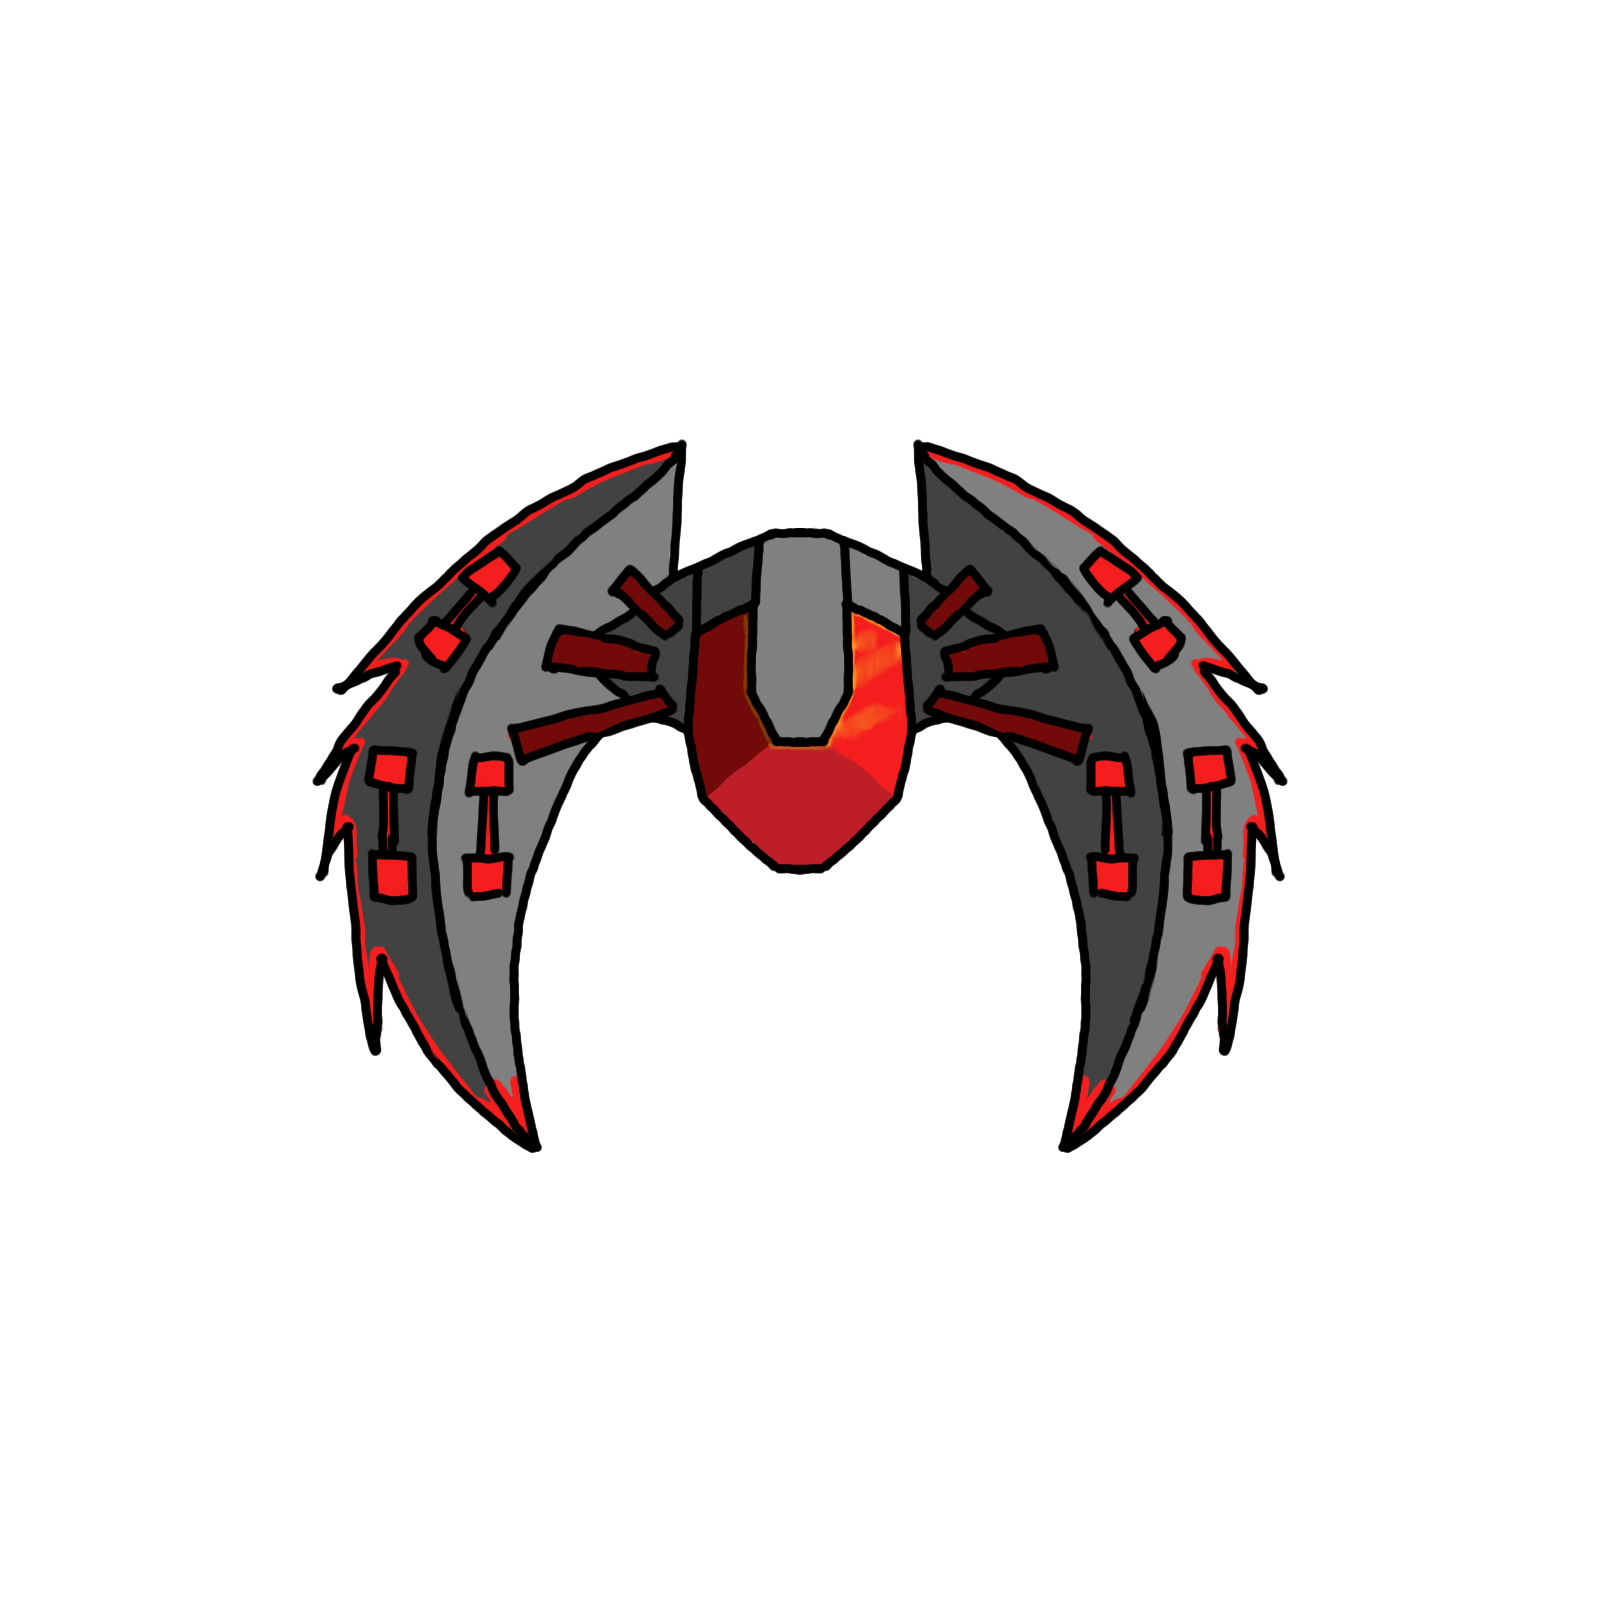
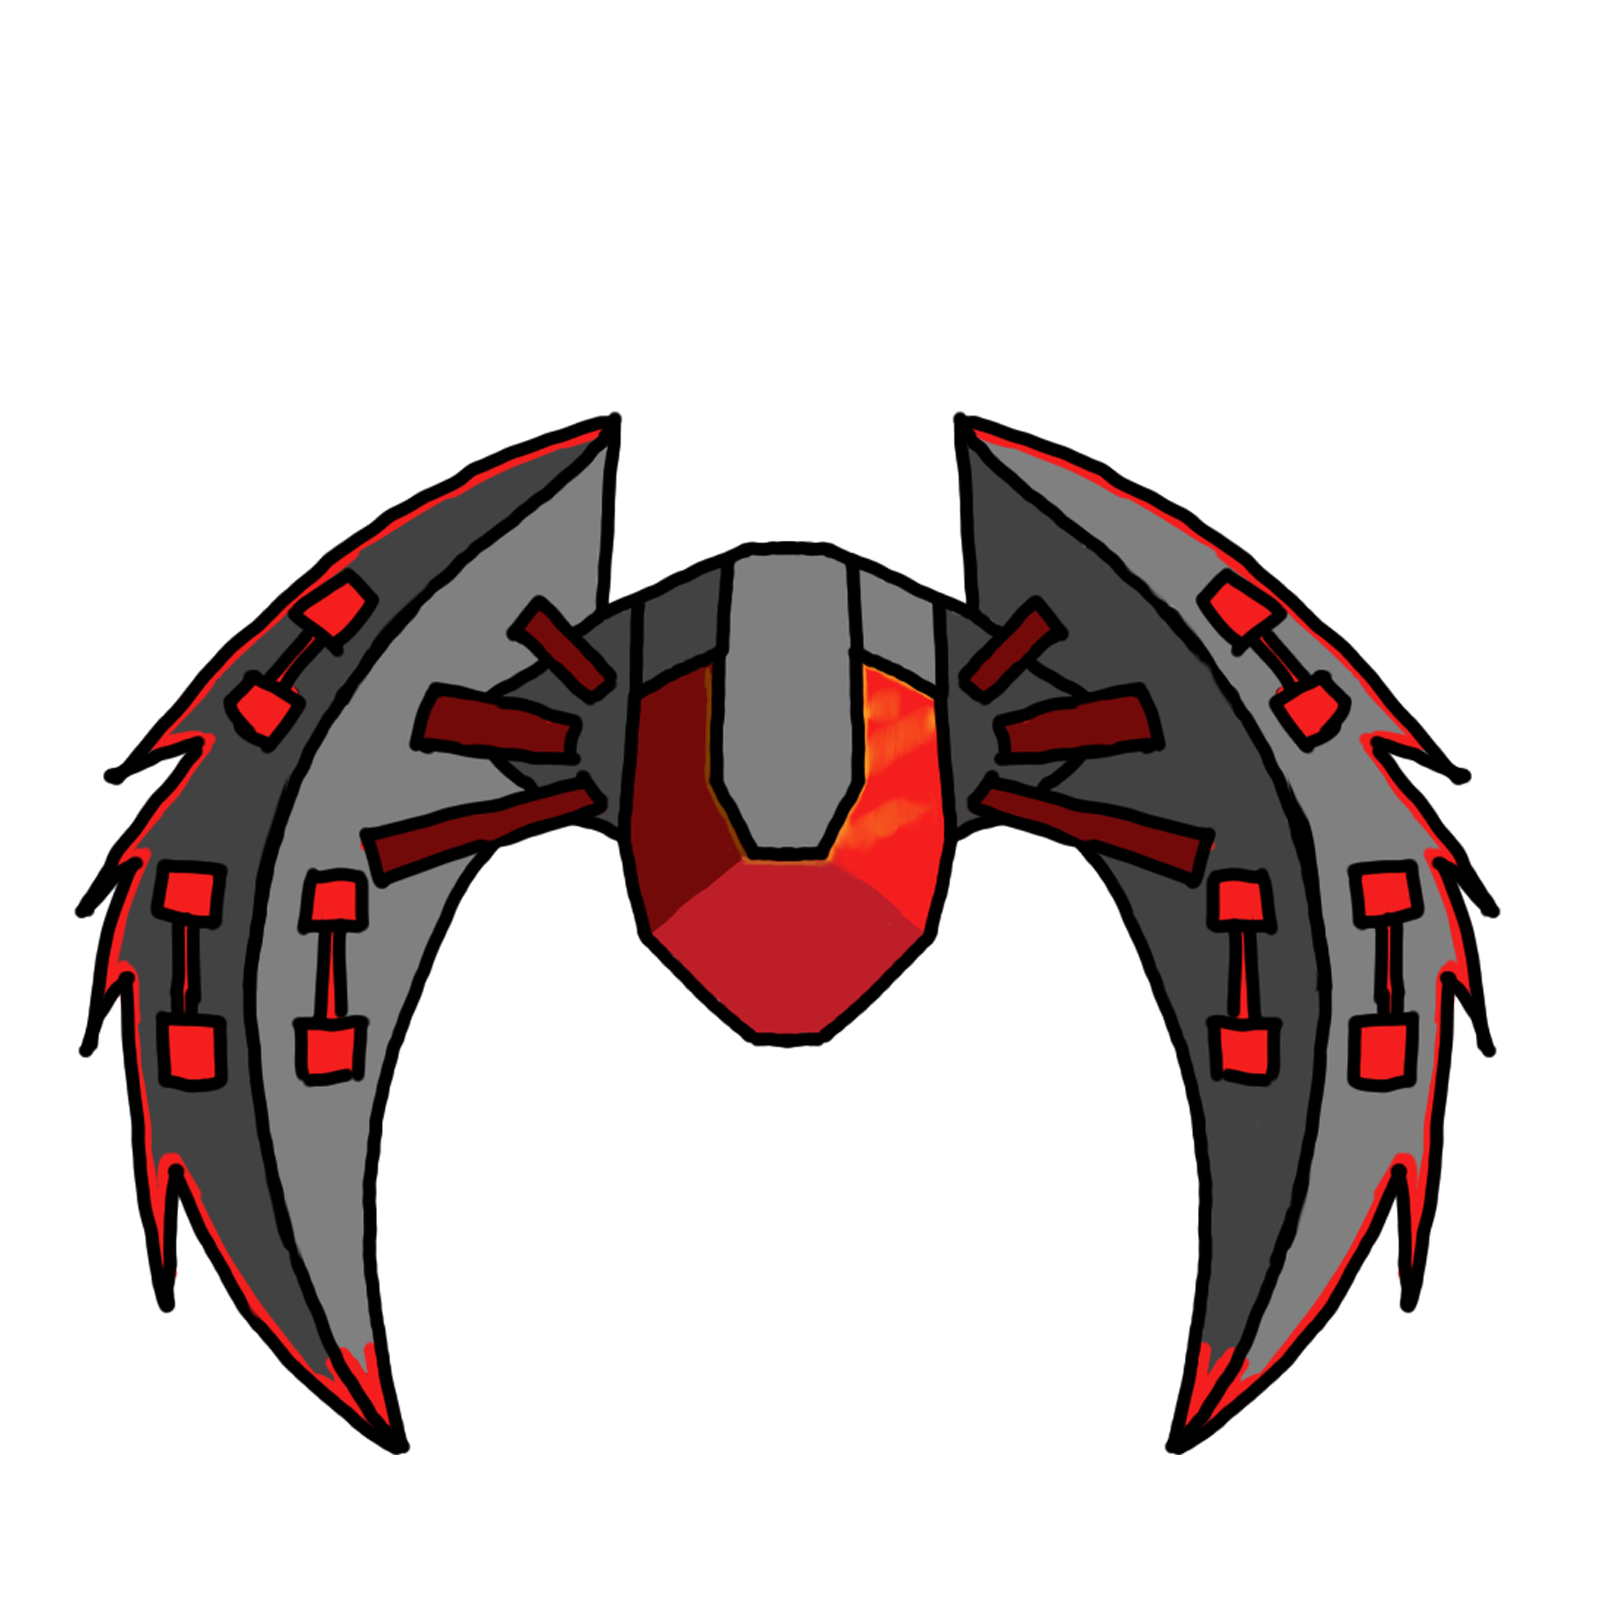
Implemented new Sprites, Performance Optimization

Changed region(s): [[0.0312, 0.25, 0.9375, 0.9062]]

diff --git a/Project/PreAlpha/qml/Enemy/Enemy.qml b/Project/PreAlpha/qml/Enemy/Enemy.qml
@@ -16,7 +16,7 @@ EntityBase{
     property int hp: 20
 
     property int shootingRange:         1000        // distance in pixel
-    property double shootingAngle:      20          // angle on one side
+    property double shootingAngle:      20 / 57       // angle on one side
 
     property Player player;
     property int playerX: player.x + player.width/2;
@@ -28,7 +28,7 @@ EntityBase{
     Image {
         id:image
         source: "../../assets/Enemy/enemy1.png"
-         anchors.fill: parent
+        anchors.fill: parent
     }
 
 
@@ -59,8 +59,7 @@ EntityBase{
     function trackingSystem() {
 
        var yDistance = enemy.y - playerY
-       var angle = shootingAngle/57 // grad -> rad
-       var offset = Math.tan(angle) * yDistance
+       var offset = Math.tan(shootingAngle) * yDistance
        var lLimit = enemy.x + offset
        var rLimit = enemy.x - offset
 
@@ -106,4 +105,5 @@ EntityBase{
             }
         }
     }
+
 }

diff --git a/Project/PreAlpha/qml/Enemy/Enemy3.qml b/Project/PreAlpha/qml/Enemy/Enemy3.qml
@@ -16,7 +16,7 @@ EntityBase{
     property int hp: 50
 
     property int shootingRange:         1500         // distance in pixel
-    property double shootingAngle:      40       // angle on one side
+    property double shootingAngle:      40 / 57      // angle on one side
 
     property Player player;
     property int playerX: player.x + player.width/2;
@@ -27,7 +27,7 @@ EntityBase{
 
     Image {
         id:image
-        source: "../../assets/Enemy/enemy1.png"
+        source: "../../assets/Enemy/enemy3.png"
          anchors.fill: parent
     }
 
@@ -59,8 +59,7 @@ EntityBase{
     function trackingSystem() {
 
        var yDistance = enemy.y - playerY
-       var angle = shootingAngle/57 // grad -> rad
-       var offset = Math.tan(angle) * yDistance
+       var offset = Math.tan(shootingAngle) * yDistance
        var lLimit = enemy.x + offset
        var rLimit = enemy.x - offset
 

diff --git a/Project/PreAlpha/qml/Enemy/Boss1.qml b/Project/PreAlpha/qml/Enemy/Boss1.qml
@@ -16,7 +16,7 @@ EntityBase{
     property int hp: 200
 
     property int shootingRange:         800         // distance in pixel
-    property double shootingAngle:      40       // angle on one side
+    property double shootingAngle:      40 / 57      // angle on one side
 
     property Player player;
     property int playerX: player.x + player.width/2;
@@ -30,7 +30,7 @@ EntityBase{
 
     Image {
         id:image
-        source: "../../assets/Enemy/enemy1.png"
+        source: "../../assets/Enemy/boss1.png"
          anchors.fill: parent
     }
 
@@ -62,8 +62,7 @@ EntityBase{
     function trackingSystem() {
 
        var yDistance = enemy.y - playerY
-       var angle = shootingAngle/57 // grad -> rad
-       var offset = Math.tan(angle) * yDistance
+       var offset = Math.tan(shootingAngle) * yDistance
        var lLimit = enemy.x + offset
        var rLimit = enemy.x - offset
 

diff --git a/Project/PreAlpha/qml/Enemy/Enemy2.qml b/Project/PreAlpha/qml/Enemy/Enemy2.qml
@@ -16,7 +16,7 @@ EntityBase{
     property int hp: 8
 
     property int shootingRange:         800         // distance in pixel
-    property double shootingAngle:      40       // angle on one side
+    property double shootingAngle:      40 / 57      // angle on one side
 
     property Player player;
     property int playerX: player.x + player.width/2;
@@ -27,7 +27,7 @@ EntityBase{
 
     Image {
         id:image
-        source: "../../assets/Enemy/enemy1.png"
+        source: "../../assets/Enemy/enemy2.png"
          anchors.fill: parent
     }
 
@@ -59,8 +59,7 @@ EntityBase{
     function trackingSystem() {
 
        var yDistance = enemy.y - playerY
-       var angle = shootingAngle/57 // grad -> rad
-       var offset = Math.tan(angle) * yDistance
+       var offset = Math.tan(shootingAngle) * yDistance
        var lLimit = enemy.x + offset
        var rLimit = enemy.x - offset
 

diff --git a/Project/PreAlpha/qml/Modules/Chaingun.qml b/Project/PreAlpha/qml/Modules/Chaingun.qml
@@ -10,7 +10,7 @@ BaseModule{
     id:chaingun
 
     property int shootingRange:         850         // distance in pixel
-    property double shootingAngle:      20       // angle on one side
+    property double shootingAngle:      20 / 57      // angle on one side
 
     hp: 5
     maxhp: 5
@@ -39,7 +39,7 @@ BaseModule{
     }
 
     Timer {
-           interval: 200; running: working; repeat: true
+           interval: 300; running: working; repeat: true
            onTriggered: trackingSystem()
        }
 
@@ -57,8 +57,7 @@ BaseModule{
            ene = erray[i];
 
            var enemyDistance = chainguny - ene.y
-           var angle = shootingAngle/57 // grad -> rad
-           var offset = Math.tan(angle) * enemyDistance
+           var offset = Math.tan(shootingAngle) * enemyDistance
            var lLimit = chaingunx - offset
            var rLimit = chaingunx + offset
 

diff --git a/Project/PreAlpha/qml/Modules/Lasergun.qml b/Project/PreAlpha/qml/Modules/Lasergun.qml
@@ -10,7 +10,7 @@ BaseModule{
     id:lasergun
 
     property int shootingRange:         1500         // distance in pixel
-    property double shootingAngle:      50          // angle on one side
+    property double shootingAngle:      50 / 57          // angle on one side
 
     hp: 5
     maxhp: 5
@@ -58,8 +58,7 @@ BaseModule{
            ene = erray[i];
 
            var enemyDistance = laserguny - ene.y
-           var angle = shootingAngle/57 // grad -> rad
-           var offset = Math.tan(angle) * enemyDistance
+           var offset = Math.tan(shootingAngle) * enemyDistance
            var lLimit = lasergunx - offset
            var rLimit = lasergunx + offset
 

diff --git a/Project/PreAlpha/qml/Scenes/GameScene.qml b/Project/PreAlpha/qml/Scenes/GameScene.qml
@@ -132,6 +132,7 @@ Scene {
         height: 50
         width: 50
         color: "blue"
+        opacity: 0
 
         x: gamescene.width - 50
         y: 50
